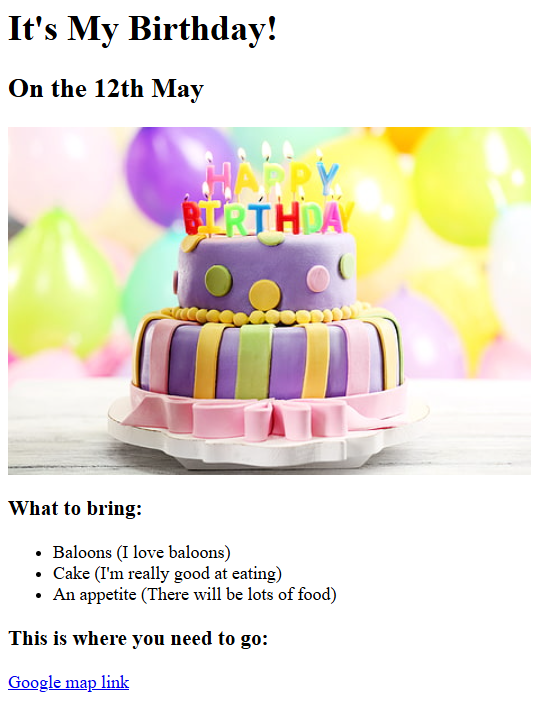
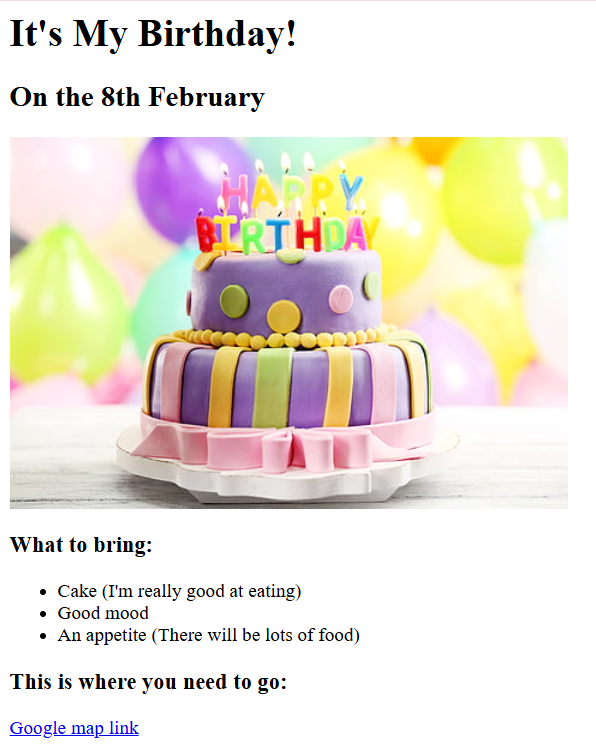
Add files via upload

diff --git a/public/birthday-invite.html b/public/birthday-invite.html
@@ -1,14 +1,13 @@
-<!-- This is one possible solution -->
 <h1>It's My Birthday!</h1>
-<h2>On the 12th May</h2>
+<h2>On the 8th February</h2>
 
 <img src="https://raw.githubusercontent.com/appbrewery/webdev/main/birthday-cake3.4.jpeg"
   alt="purple birthday cake with candles" />
 
 <h3>What to bring:</h3>
 <ul>
-  <li>Baloons (I love baloons)</li>
   <li>Cake (I'm really good at eating)</li>
+  <li>Good mood</li>
   <li>An appetite (There will be lots of food)</li>
 </ul>
 
